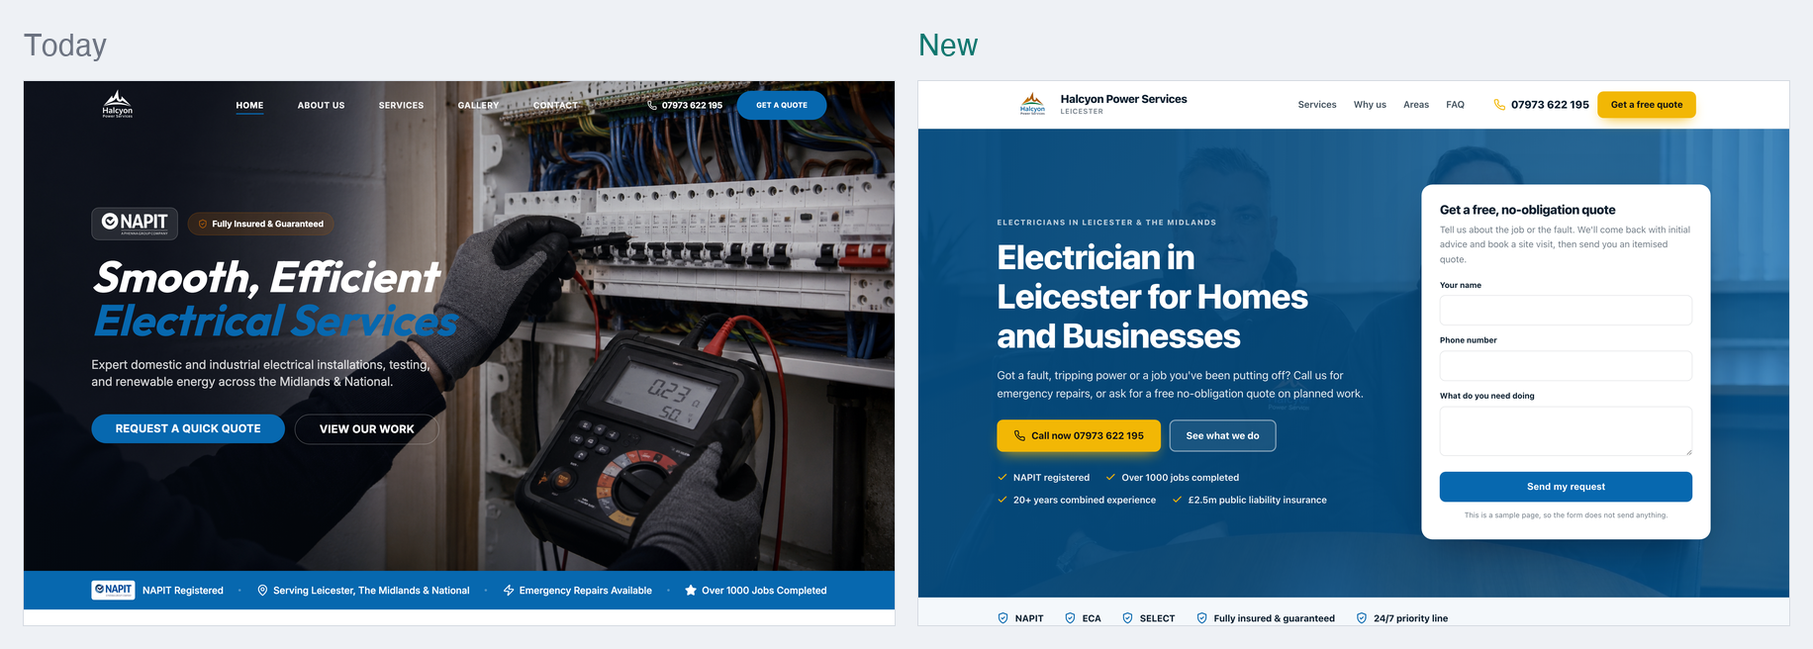
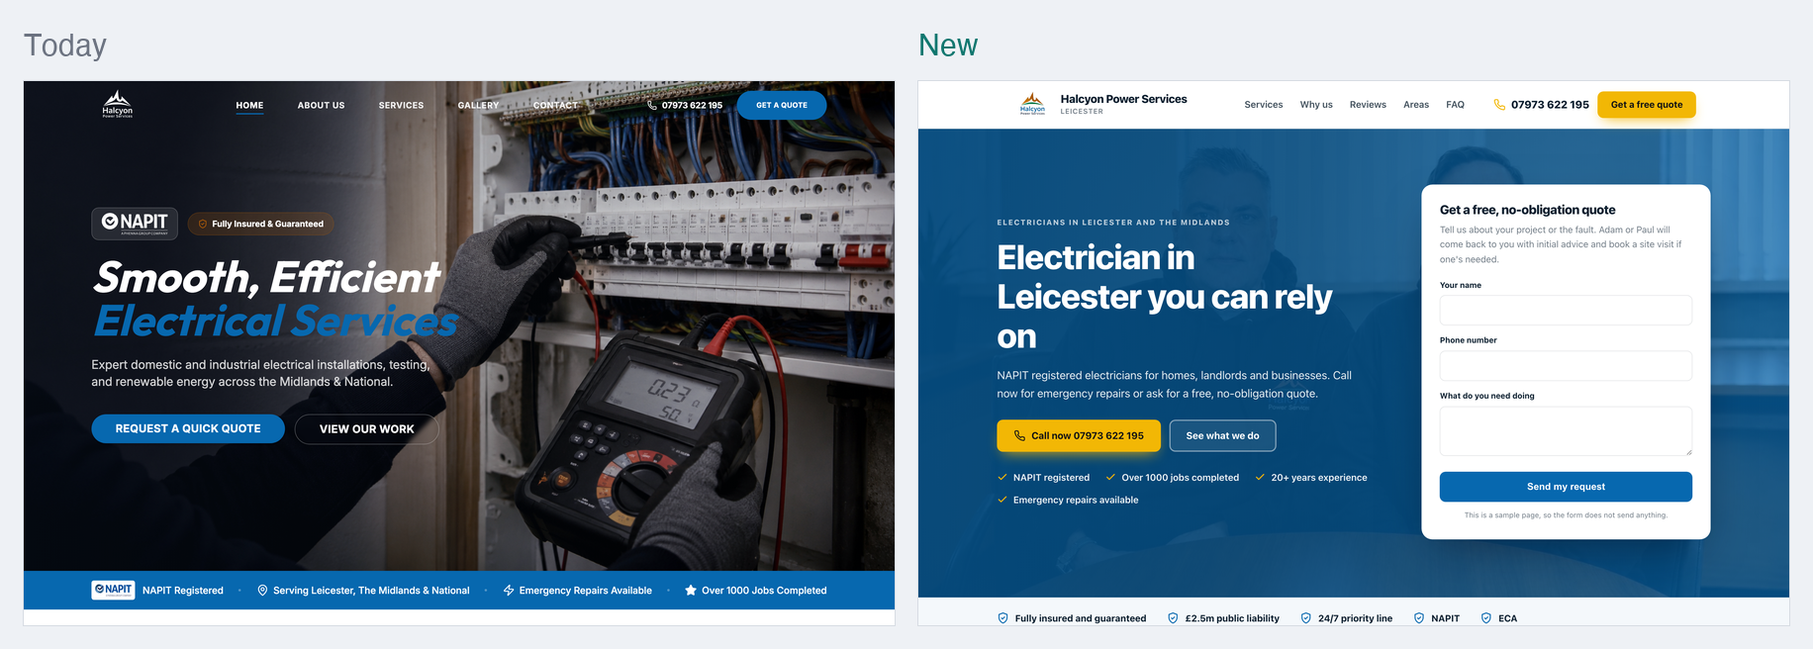
One page sample for Halcyon Power Services

diff --git a/docs/af74b52c09/index.html b/docs/af74b52c09/index.html
@@ -4,14 +4,14 @@
 <meta charset="utf-8">
 <meta name="viewport" content="width=device-width, initial-scale=1">
 <meta name="robots" content="noindex,nofollow">
-<meta name="aso-build" content="6f3c6976091f">
+<meta name="aso-build" content="baf461f1c90d">
 <title>Electrician in Leicester | Halcyon Power Services</title>
-<meta name="description" content="NAPIT registered electricians in Leicester and the Midlands. EICRs, rewires, EV chargers and solar PV. Emergency repairs available.">
+<meta name="description" content="NAPIT registered electricians in Leicester and the Midlands. EICRs, rewires, EV chargers and solar PV. Free, itemised quotes with no hidden extras.">
 <link rel="canonical" href="https://markygff.github.io/aso-mockups/af74b52c09/">
 <meta property="og:type" content="website">
 <meta property="og:site_name" content="Halcyon Power Services">
 <meta property="og:title" content="Electrician in Leicester | Halcyon Power Services">
-<meta property="og:description" content="NAPIT registered electricians in Leicester and the Midlands. EICRs, rewires, EV chargers and solar PV. Emergency repairs available.">
+<meta property="og:description" content="NAPIT registered electricians in Leicester and the Midlands. EICRs, rewires, EV chargers and solar PV. Free, itemised quotes with no hidden extras.">
 <meta property="og:url" content="https://markygff.github.io/aso-mockups/af74b52c09/">
 <meta property="og:image" content="img/p01.jpg"><meta name="twitter:card" content="summary_large_image">
 <style>
@@ -275,7 +275,7 @@ p{margin:0}
     <nav class="nav">
       <a href="#services">Services</a>
       <a href="#why">Why us</a>
-      <a href="#areas">Areas</a>
+<a href="#reviews">Reviews</a>      <a href="#areas">Areas</a>
       <a href="#faq">FAQ</a>
     </nav>
     <div class="header-cta">
@@ -291,19 +291,19 @@ p{margin:0}
   <div class="hero-bg"><img src="img/p01.jpg" alt="Adam Lee &amp; Paul Blake-Smith" width="1600" height="900"></div>
   <div class="wrap hero-in">
     <div>
-      <p class="eyebrow">Electricians in Leicester &amp; the Midlands</p>
-      <h1>Electrician in Leicester for Homes and Businesses</h1>
-      <p class="hero-sub">Got a fault, tripping power or a job you&#39;ve been putting off? Call us for emergency repairs, or ask for a free no-obligation quote on planned work.</p>
+      <p class="eyebrow">Electricians in Leicester and the Midlands</p>
+      <h1>Electrician in Leicester you can rely on</h1>
+      <p class="hero-sub">NAPIT registered electricians for homes, landlords and businesses. Call now for emergency repairs or ask for a free, no-obligation quote.</p>
       <div class="hero-actions">
         <a class="btn btn-accent" href="tel:+447973622195"><svg viewBox="0 0 24 24" fill="none" stroke="currentColor" stroke-width="2" stroke-linecap="round" stroke-linejoin="round" aria-hidden="true"><path d="M22 16.9v3a2 2 0 0 1-2.2 2 19.8 19.8 0 0 1-8.6-3.1 19.5 19.5 0 0 1-6-6 19.8 19.8 0 0 1-3.1-8.7A2 2 0 0 1 4.1 2h3a2 2 0 0 1 2 1.7c.1 1 .4 1.9.7 2.8a2 2 0 0 1-.5 2.1L8.1 9.9a16 16 0 0 0 6 6l1.3-1.2a2 2 0 0 1 2.1-.5c.9.3 1.8.6 2.8.7a2 2 0 0 1 1.7 2z"/></svg>Call now 07973 622 195</a>
         <a class="btn btn-ghost" href="#services">See what we do</a>
       </div>
       <ul class="hero-bullets">
-<li><svg viewBox="0 0 24 24" fill="none" stroke="currentColor" stroke-width="2.4" stroke-linecap="round" stroke-linejoin="round" aria-hidden="true"><path d="M20 6 9 17l-5-5"/></svg><span>NAPIT registered</span></li><li><svg viewBox="0 0 24 24" fill="none" stroke="currentColor" stroke-width="2.4" stroke-linecap="round" stroke-linejoin="round" aria-hidden="true"><path d="M20 6 9 17l-5-5"/></svg><span>Over 1000 jobs completed</span></li><li><svg viewBox="0 0 24 24" fill="none" stroke="currentColor" stroke-width="2.4" stroke-linecap="round" stroke-linejoin="round" aria-hidden="true"><path d="M20 6 9 17l-5-5"/></svg><span>20+ years combined experience</span></li><li><svg viewBox="0 0 24 24" fill="none" stroke="currentColor" stroke-width="2.4" stroke-linecap="round" stroke-linejoin="round" aria-hidden="true"><path d="M20 6 9 17l-5-5"/></svg><span>£2.5m public liability insurance</span></li>      </ul>
+<li><svg viewBox="0 0 24 24" fill="none" stroke="currentColor" stroke-width="2.4" stroke-linecap="round" stroke-linejoin="round" aria-hidden="true"><path d="M20 6 9 17l-5-5"/></svg><span>NAPIT registered</span></li><li><svg viewBox="0 0 24 24" fill="none" stroke="currentColor" stroke-width="2.4" stroke-linecap="round" stroke-linejoin="round" aria-hidden="true"><path d="M20 6 9 17l-5-5"/></svg><span>Over 1000 jobs completed</span></li><li><svg viewBox="0 0 24 24" fill="none" stroke="currentColor" stroke-width="2.4" stroke-linecap="round" stroke-linejoin="round" aria-hidden="true"><path d="M20 6 9 17l-5-5"/></svg><span>20+ years experience</span></li><li><svg viewBox="0 0 24 24" fill="none" stroke="currentColor" stroke-width="2.4" stroke-linecap="round" stroke-linejoin="round" aria-hidden="true"><path d="M20 6 9 17l-5-5"/></svg><span>Emergency repairs available</span></li>      </ul>
     </div>
     <div class="quote-card" id="quote">
       <h3>Get a free, no-obligation quote</h3>
-      <p class="lead">Tell us about the job or the fault. We&#39;ll come back with initial advice and book a site visit, then send you an itemised quote.</p>
+      <p class="lead">Tell us about your project or the fault. Adam or Paul will come back to you with initial advice and book a site visit if one&#39;s needed.</p>
       <form action="#" onsubmit="return false" novalidate>
         <div class="field"><label for="h-name">Your name</label>
           <input id="h-name" name="name" type="text" autocomplete="name"></div>
@@ -320,11 +320,11 @@ p{margin:0}
 
 <div class="trust">
   <div class="wrap trust-in">
+    <div class="trust-item"><svg viewBox="0 0 24 24" fill="none" stroke="currentColor" stroke-width="2" stroke-linecap="round" stroke-linejoin="round" aria-hidden="true"><path d="M12 2 4 5v6c0 5 3.4 9.4 8 11 4.6-1.6 8-6 8-11V5z"/><path d="m9 12 2 2 4-4"/></svg><span>Fully insured and guaranteed</span></div>
+    <div class="trust-item"><svg viewBox="0 0 24 24" fill="none" stroke="currentColor" stroke-width="2" stroke-linecap="round" stroke-linejoin="round" aria-hidden="true"><path d="M12 2 4 5v6c0 5 3.4 9.4 8 11 4.6-1.6 8-6 8-11V5z"/><path d="m9 12 2 2 4-4"/></svg><span>£2.5m public liability</span></div>
+    <div class="trust-item"><svg viewBox="0 0 24 24" fill="none" stroke="currentColor" stroke-width="2" stroke-linecap="round" stroke-linejoin="round" aria-hidden="true"><path d="M12 2 4 5v6c0 5 3.4 9.4 8 11 4.6-1.6 8-6 8-11V5z"/><path d="m9 12 2 2 4-4"/></svg><span>24/7 priority line</span></div>
     <div class="trust-item"><svg viewBox="0 0 24 24" fill="none" stroke="currentColor" stroke-width="2" stroke-linecap="round" stroke-linejoin="round" aria-hidden="true"><path d="M12 2 4 5v6c0 5 3.4 9.4 8 11 4.6-1.6 8-6 8-11V5z"/><path d="m9 12 2 2 4-4"/></svg><span>NAPIT</span></div>
     <div class="trust-item"><svg viewBox="0 0 24 24" fill="none" stroke="currentColor" stroke-width="2" stroke-linecap="round" stroke-linejoin="round" aria-hidden="true"><path d="M12 2 4 5v6c0 5 3.4 9.4 8 11 4.6-1.6 8-6 8-11V5z"/><path d="m9 12 2 2 4-4"/></svg><span>ECA</span></div>
-    <div class="trust-item"><svg viewBox="0 0 24 24" fill="none" stroke="currentColor" stroke-width="2" stroke-linecap="round" stroke-linejoin="round" aria-hidden="true"><path d="M12 2 4 5v6c0 5 3.4 9.4 8 11 4.6-1.6 8-6 8-11V5z"/><path d="m9 12 2 2 4-4"/></svg><span>SELECT</span></div>
-    <div class="trust-item"><svg viewBox="0 0 24 24" fill="none" stroke="currentColor" stroke-width="2" stroke-linecap="round" stroke-linejoin="round" aria-hidden="true"><path d="M12 2 4 5v6c0 5 3.4 9.4 8 11 4.6-1.6 8-6 8-11V5z"/><path d="m9 12 2 2 4-4"/></svg><span>Fully insured &amp; guaranteed</span></div>
-    <div class="trust-item"><svg viewBox="0 0 24 24" fill="none" stroke="currentColor" stroke-width="2" stroke-linecap="round" stroke-linejoin="round" aria-hidden="true"><path d="M12 2 4 5v6c0 5 3.4 9.4 8 11 4.6-1.6 8-6 8-11V5z"/><path d="m9 12 2 2 4-4"/></svg><span>24/7 priority line</span></div>
   </div>
 </div>
 
@@ -333,54 +333,54 @@ p{margin:0}
     <div class="section-head">
       <p class="eyebrow">What we do</p>
       <h2>Our electrical services</h2>
-      <p>We work for homeowners, landlords and commercial property developers. Tell us what you need and we&#39;ll tell you straight what&#39;s involved.</p>
+      <p>We look after homes, landlords and commercial property. Here&#39;s what we do.</p>
     </div>
     <div class="grid grid-3">
       <article class="card card-photo">
         <img src="img/p10.jpg" alt="Landlord Services" width="600" height="380" loading="lazy">
         <div class="card-body">
           <h3>EICR &amp; Testing</h3>
-          <p>Electrical Installation Condition Reports, periodic inspections and fault finding for landlords, homeowners and commercial property managers.</p>
+          <p>Electrical Installation Condition Reports for landlords, homeowners and commercial property managers. Includes periodic inspections and fault finding.</p>
         </div>
       </article>
       <article class="card card-photo">
         <img src="img/p00.jpg" alt="Professional Electrical Services" width="600" height="380" loading="lazy">
         <div class="card-body">
           <h3>Domestic Installations</h3>
-          <p>Electrical work for your home, from new consumer units to extra circuits. Call us when you&#39;re renovating or your old setup isn&#39;t up to the job.</p>
+          <p>Consumer unit upgrades and electrical work around the home. Give us a call if your fuse box is old or your power keeps tripping.</p>
         </div>
       </article>
       <article class="card card-photo">
         <img src="img/p06.jpg" alt="Domestic Installations" width="600" height="380" loading="lazy">
         <div class="card-body">
           <h3>Full &amp; Partial Rewires</h3>
-          <p>Full or partial rewires for older homes or properties being renovated. We&#39;ll survey first and quote the work in detail.</p>
+          <p>Full or partial rewires for older properties where the wiring is tired, unsafe or can&#39;t keep up with how you use the house.</p>
         </div>
       </article>
       <article class="card">
         <div class="icon"><svg viewBox="0 0 24 24" fill="none" stroke="currentColor" stroke-width="2" stroke-linecap="round" stroke-linejoin="round" aria-hidden="true"><path d="M4 20 15 9"/><path d="m14 4 6 6-3 3-6-6z"/><path d="m3 15 6 6"/></svg></div>
-        <h3>Commercial &amp; Industrial</h3>
-        <p>Large-scale electrical installations for commercial property developers, including three-phase work and emergency lighting.</p>
+        <h3>Smart Home &amp; Lighting</h3>
+        <p>Smart lighting and home control, set up to suit your mood, help with security and cut wasted energy.</p>
       </article>
       <article class="card">
         <div class="icon"><svg viewBox="0 0 24 24" fill="none" stroke="currentColor" stroke-width="2" stroke-linecap="round" stroke-linejoin="round" aria-hidden="true"><path d="M12 3s5 4.2 5 9a5 5 0 0 1-10 0c0-1.8.8-3.2 1.6-4.2.3 1 1 1.9 1.9 2.3C11 8.4 10.7 5.6 12 3z"/></svg></div>
-        <h3>Contract EICR Testing</h3>
-        <p>Large-scale EICR testing for property developers and estate managers who need a whole portfolio kept compliant.</p>
+        <h3>EV Charger Installation</h3>
+        <p>Home and business EV charging points fitted by certified installers. Worth sorting if you&#39;ve got an electric car or plan to get one.</p>
       </article>
       <article class="card">
         <div class="icon"><svg viewBox="0 0 24 24" fill="none" stroke="currentColor" stroke-width="2" stroke-linecap="round" stroke-linejoin="round" aria-hidden="true"><path d="M2 7h11v10H2z"/><path d="M13 10h4l4 3.5V17h-8z"/><circle cx="6" cy="18" r="2"/><circle cx="17" cy="18" r="2"/></svg></div>
-        <h3>EV Charger Installation</h3>
-        <p>Home and business EV charging points fitted by certified installers. A good time to call is before your electric car arrives.</p>
+        <h3>Solar PV &amp; Battery Storage</h3>
+        <p>Solar panels and battery storage fitted to help you cut your energy bills as costs keep rising.</p>
       </article>
       <article class="card">
         <div class="icon"><svg viewBox="0 0 24 24" fill="none" stroke="currentColor" stroke-width="2" stroke-linecap="round" stroke-linejoin="round" aria-hidden="true"><path d="M12 2 4 5v6c0 5 3.4 9.4 8 11 4.6-1.6 8-6 8-11V5z"/><path d="m9 12 2 2 4-4"/></svg></div>
-        <h3>Solar PV &amp; Battery Storage</h3>
-        <p>Solar panels and battery storage for homes in the Midlands. We&#39;ll look at your roof and usage, then quote the system properly.</p>
+        <h3>Commercial &amp; Industrial</h3>
+        <p>Large-scale electrical installations for commercial property developers, including three-phase work.</p>
       </article>
       <article class="card">
         <div class="icon"><svg viewBox="0 0 24 24" fill="none" stroke="currentColor" stroke-width="2" stroke-linecap="round" stroke-linejoin="round" aria-hidden="true"><circle cx="12" cy="12" r="9"/><path d="M12 7v5l3 2"/></svg></div>
-        <h3>Smart Home &amp; Lighting</h3>
-        <p>Smart lighting and home control set up to suit how you use each room, with scenes for mood, security and lower energy use.</p>
+        <h3>Contract EICR Testing</h3>
+        <p>Large-scale EICR testing for property developers, estate managers and landlords with a portfolio to keep compliant.</p>
       </article>
     </div>
   </div>
@@ -396,42 +396,56 @@ p{margin:0}
       <div class="why-item">
         <div class="why-badge">1</div>
         <div>
-          <h3>You deal with the owners</h3>
-          <p>Adam Lee and Paul Blake-Smith run the business and bring decades of combined experience to every job.</p>
+          <h3>Free consultation</h3>
+          <p>Tell us about the job or the fault. We&#39;ll give you initial advice and book a site visit.</p>
         </div>
       </div>
       <div class="why-item">
         <div class="why-badge">2</div>
         <div>
-          <h3>Itemised quotes</h3>
-          <p>After a site survey you get a detailed, itemised quote with no hidden extras. There&#39;s no obligation to go ahead.</p>
+          <h3>No hidden extras</h3>
+          <p>After a site survey you get a detailed, itemised quote. There&#39;s no obligation to go ahead.</p>
         </div>
       </div>
       <div class="why-item">
         <div class="why-badge">3</div>
         <div>
-          <h3>Registered and insured</h3>
-          <p>We&#39;re NAPIT registered, fully insured and guaranteed, with £2.5m public liability cover.</p>
+          <h3>NAPIT approved team</h3>
+          <p>Our NAPIT approved team does the work safely and to the highest industry standards.</p>
         </div>
       </div>
       <div class="why-item">
         <div class="why-badge">4</div>
         <div>
-          <h3>Help when it goes wrong</h3>
-          <p>Emergency repairs are available on our 24/7 priority line. You can also message us on WhatsApp.</p>
+          <h3>Fully insured</h3>
+          <p>Every job is guaranteed and backed by £2.5m public liability cover.</p>
         </div>
       </div>
     </div>
   </div>
 </section>
 
+<section class="section" id="reviews">
+  <div class="wrap">
+    <div class="section-head">
+      <p class="eyebrow">In their words</p>
+      <h2>What our customers say</h2>
+    </div>
+    <div class="grid grid-2">
+      <div class="quote-block">
+        <div class="stars">★★★★★</div>
+        <blockquote>They are always punctual, professional, and friendly</blockquote>
+<div class="who">Neeley Turell</div>      </div>
+    </div>
+  </div>
+</section>
 
 <section class="section areas" id="areas">
   <div class="wrap">
     <div class="section-head">
       <p class="eyebrow">Where we work</p>
       <h2>Electricians covering Leicester and the Midlands</h2>
-      <p>We work for homeowners and local landlords across Leicester and Warwick. We also take on national contracts for property developers.</p>
+      <p>We&#39;re based in Leicester and work across Warwick and the wider Midlands. We also take on national contracts.</p>
     </div>
     <ul class="area-list">
 <li>Leicester</li><li>Warwick</li><li>The Midlands</li><li>National</li>    </ul>
@@ -442,27 +456,27 @@ p{margin:0}
   <div class="wrap" style="max-width:840px">
     <div class="section-head">
       <p class="eyebrow">Questions</p>
-      <h2>Common questions about our electrical work</h2>
+      <h2>Common questions</h2>
     </div>
     <div class="faq-item">
       <h3><span>Q.</span>Do you do emergency electrical repairs in Leicester?</h3>
-      <p>Yes. Emergency repairs are available and we run a 24/7 priority line. Call the emergency number on this page, tell us what&#39;s happened and we&#39;ll talk you through staying safe while we arrange to come out.</p>
-    </div>
-    <div class="faq-item">
-      <h3><span>Q.</span>How much does an EICR cost for a rental property?</h3>
-      <p>It depends on the property. We&#39;ll give you a detailed, itemised quote with no hidden extras before any work starts. Call us or send the form with a few details and we&#39;ll come back to you.</p>
+      <p>Yes. Emergency repairs are available and we run a 24/7 priority line. Call the emergency number on this page and tell us what&#39;s happened so we can advise you straight away.</p>
     </div>
     <div class="faq-item">
       <h3><span>Q.</span>What areas do you cover?</h3>
-      <p>We cover Leicester, Warwick and the wider Midlands. We also carry out national contracts for property developers and estate managers.</p>
+      <p>We cover Leicester, Warwick and the wider Midlands. We also take on national contracts for property developers and estate managers. If you&#39;re not sure we cover you, give us a call and ask.</p>
     </div>
     <div class="faq-item">
       <h3><span>Q.</span>Do you give free quotes?</h3>
-      <p>Yes. Quotes are free and there&#39;s no obligation. We do a site survey first so the price is accurate, then send you an itemised quote with no hidden extras.</p>
+      <p>Yes. The first consultation is free. After a site survey we send a detailed, itemised quote with no hidden extras and no obligation to go ahead.</p>
     </div>
     <div class="faq-item">
-      <h3><span>Q.</span>What happens when I first get in touch?</h3>
-      <p>Tell us about the project or the fault. We&#39;ll give you some initial advice and book a site visit. After the survey you get an itemised quote, and if you go ahead our NAPIT approved team does the work.</p>
+      <h3><span>Q.</span>How much does an EICR cost in Leicester?</h3>
+      <p>It depends on the size and type of property, so we don&#39;t publish a set price. Tell us about the property and we&#39;ll give you a free, no-obligation quote. We also do contract EICR testing for landlords and developers with several properties.</p>
+    </div>
+    <div class="faq-item">
+      <h3><span>Q.</span>Are you registered and insured?</h3>
+      <p>Yes. We&#39;re NAPIT registered and fully insured, with £2.5m public liability cover. Our work is guaranteed.</p>
     </div>
   </div>
 </section>
@@ -472,7 +486,7 @@ p{margin:0}
     <div>
       <p class="eyebrow">Get in touch</p>
       <h2 style="font-size:clamp(1.75rem,3.2vw,2.4rem);margin-bottom:14px">Get a free, no-obligation quote</h2>
-      <p style="color:var(--muted);font-size:1.06rem">Tell us about the job or the fault. We&#39;ll come back with initial advice and book a site visit, then send you an itemised quote.</p>
+      <p style="color:var(--muted);font-size:1.06rem">Tell us about your project or the fault. Adam or Paul will come back to you with initial advice and book a site visit if one&#39;s needed.</p>
       <div class="contact-facts">
         <div class="fact-row"><svg viewBox="0 0 24 24" fill="none" stroke="currentColor" stroke-width="2" stroke-linecap="round" stroke-linejoin="round" aria-hidden="true"><path d="M22 16.9v3a2 2 0 0 1-2.2 2 19.8 19.8 0 0 1-8.6-3.1 19.5 19.5 0 0 1-6-6 19.8 19.8 0 0 1-3.1-8.7A2 2 0 0 1 4.1 2h3a2 2 0 0 1 2 1.7c.1 1 .4 1.9.7 2.8a2 2 0 0 1-.5 2.1L8.1 9.9a16 16 0 0 0 6 6l1.3-1.2a2 2 0 0 1 2.1-.5c.9.3 1.8.6 2.8.7a2 2 0 0 1 1.7 2z"/></svg><div><strong>Phone</strong>
           <a href="tel:+447973622195">07973 622 195</a></div></div>
@@ -493,7 +507,7 @@ p{margin:0}
           <input id="c-email" name="email" type="email" autocomplete="email"></div>
         <div class="field"><label for="c-service">What do you need</label>
           <select id="c-service" name="service">
-<option>EICR &amp; Testing</option><option>Domestic Installations</option><option>Full &amp; Partial Rewires</option><option>Commercial &amp; Industrial</option><option>Contract EICR Testing</option><option>EV Charger Installation</option><option>Solar PV &amp; Battery Storage</option><option>Smart Home &amp; Lighting</option>            <option>Something else</option>
+<option>EICR &amp; Testing</option><option>Domestic Installations</option><option>Full &amp; Partial Rewires</option><option>Smart Home &amp; Lighting</option><option>EV Charger Installation</option><option>Solar PV &amp; Battery Storage</option><option>Commercial &amp; Industrial</option><option>Contract EICR Testing</option>            <option>Something else</option>
           </select></div>
         <div class="field"><label for="c-msg">Tell us about the job</label>
           <textarea id="c-msg" name="message"></textarea></div>
@@ -510,11 +524,11 @@ p{margin:0}
     <div class="footer-in">
       <div>
         <div class="footer-brand">Halcyon Power Services</div>
-        <p>NAPIT registered electricians for homes and businesses across Leicester, the Midlands and national contracts.</p>
+        <p>NAPIT registered electricians for homes, landlords and businesses across Leicester and the Midlands.</p>
 <p style="margin-top:14px"><a href="tel:+447973622195">07973 622 195</a></p>      </div>
       <div>
         <h4>Services</h4>
-        <ul><li>EICR &amp; Testing</li><li>Domestic Installations</li><li>Full &amp; Partial Rewires</li><li>Commercial &amp; Industrial</li><li>Contract EICR Testing</li><li>EV Charger Installation</li></ul>
+        <ul><li>EICR &amp; Testing</li><li>Domestic Installations</li><li>Full &amp; Partial Rewires</li><li>Smart Home &amp; Lighting</li><li>EV Charger Installation</li><li>Solar PV &amp; Battery Storage</li></ul>
       </div>
       <div>
         <h4>Areas</h4>
@@ -534,7 +548,7 @@ p{margin:0}
     "@type": "Electrician",
     "name": "Halcyon Power Services",
     "url": "https://markygff.github.io/aso-mockups/af74b52c09/",
-    "description": "NAPIT registered electricians in Leicester and the Midlands. EICRs, rewires, EV chargers and solar PV. Emergency repairs available.",
+    "description": "NAPIT registered electricians in Leicester and the Midlands. EICRs, rewires, EV chargers and solar PV. Free, itemised quotes with no hidden extras.",
     "telephone": "07973 622 195",
     "address": {
       "@type": "PostalAddress",
@@ -587,14 +601,7 @@ p{margin:0}
         "@type": "Offer",
         "itemOffered": {
           "@type": "Service",
-          "name": "Commercial & Industrial"
-        }
-      },
-      {
-        "@type": "Offer",
-        "itemOffered": {
-          "@type": "Service",
-          "name": "Contract EICR Testing"
+          "name": "Smart Home & Lighting"
         }
       },
       {
@@ -615,7 +622,14 @@ p{margin:0}
         "@type": "Offer",
         "itemOffered": {
           "@type": "Service",
-          "name": "Smart Home & Lighting"
+          "name": "Commercial & Industrial"
+        }
+      },
+      {
+        "@type": "Offer",
+        "itemOffered": {
+          "@type": "Service",
+          "name": "Contract EICR Testing"
         }
       }
     ],
@@ -630,15 +644,7 @@ p{margin:0}
         "name": "Do you do emergency electrical repairs in Leicester?",
         "acceptedAnswer": {
           "@type": "Answer",
-          "text": "Yes. Emergency repairs are available and we run a 24/7 priority line. Call the emergency number on this page, tell us what's happened and we'll talk you through staying safe while we arrange to come out."
-        }
-      },
-      {
-        "@type": "Question",
-        "name": "How much does an EICR cost for a rental property?",
-        "acceptedAnswer": {
-          "@type": "Answer",
-          "text": "It depends on the property. We'll give you a detailed, itemised quote with no hidden extras before any work starts. Call us or send the form with a few details and we'll come back to you."
+          "text": "Yes. Emergency repairs are available and we run a 24/7 priority line. Call the emergency number on this page and tell us what's happened so we can advise you straight away."
         }
       },
       {
@@ -646,7 +652,7 @@ p{margin:0}
         "name": "What areas do you cover?",
         "acceptedAnswer": {
           "@type": "Answer",
-          "text": "We cover Leicester, Warwick and the wider Midlands. We also carry out national contracts for property developers and estate managers."
+          "text": "We cover Leicester, Warwick and the wider Midlands. We also take on national contracts for property developers and estate managers. If you're not sure we cover you, give us a call and ask."
         }
       },
       {
@@ -654,15 +660,23 @@ p{margin:0}
         "name": "Do you give free quotes?",
         "acceptedAnswer": {
           "@type": "Answer",
-          "text": "Yes. Quotes are free and there's no obligation. We do a site survey first so the price is accurate, then send you an itemised quote with no hidden extras."
+          "text": "Yes. The first consultation is free. After a site survey we send a detailed, itemised quote with no hidden extras and no obligation to go ahead."
         }
       },
       {
         "@type": "Question",
-        "name": "What happens when I first get in touch?",
+        "name": "How much does an EICR cost in Leicester?",
         "acceptedAnswer": {
           "@type": "Answer",
-          "text": "Tell us about the project or the fault. We'll give you some initial advice and book a site visit. After the survey you get an itemised quote, and if you go ahead our NAPIT approved team does the work."
+          "text": "It depends on the size and type of property, so we don't publish a set price. Tell us about the property and we'll give you a free, no-obligation quote. We also do contract EICR testing for landlords and developers with several properties."
+        }
+      },
+      {
+        "@type": "Question",
+        "name": "Are you registered and insured?",
+        "acceptedAnswer": {
+          "@type": "Answer",
+          "text": "Yes. We're NAPIT registered and fully insured, with £2.5m public liability cover. Our work is guaranteed."
         }
       }
     ]
